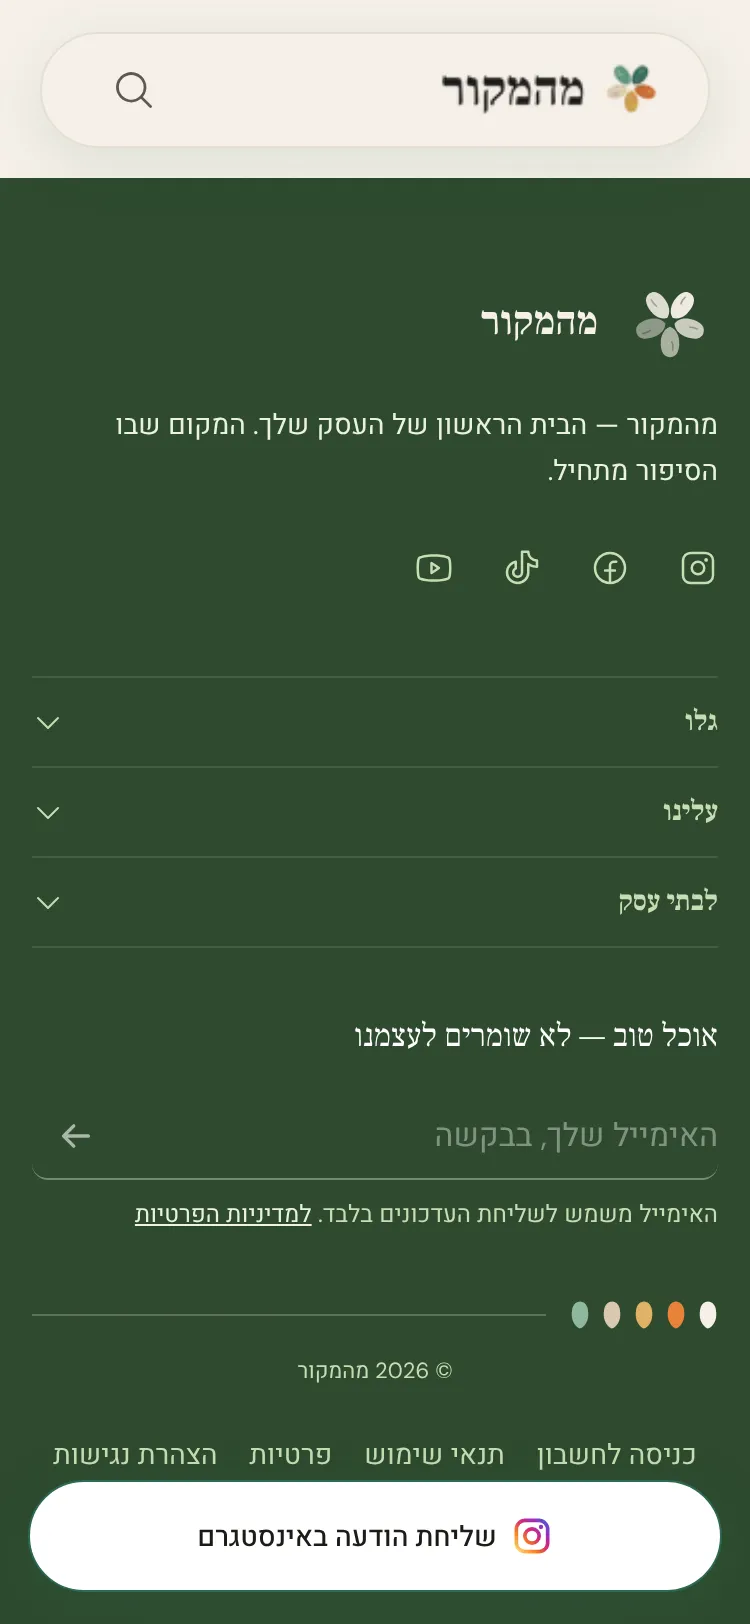
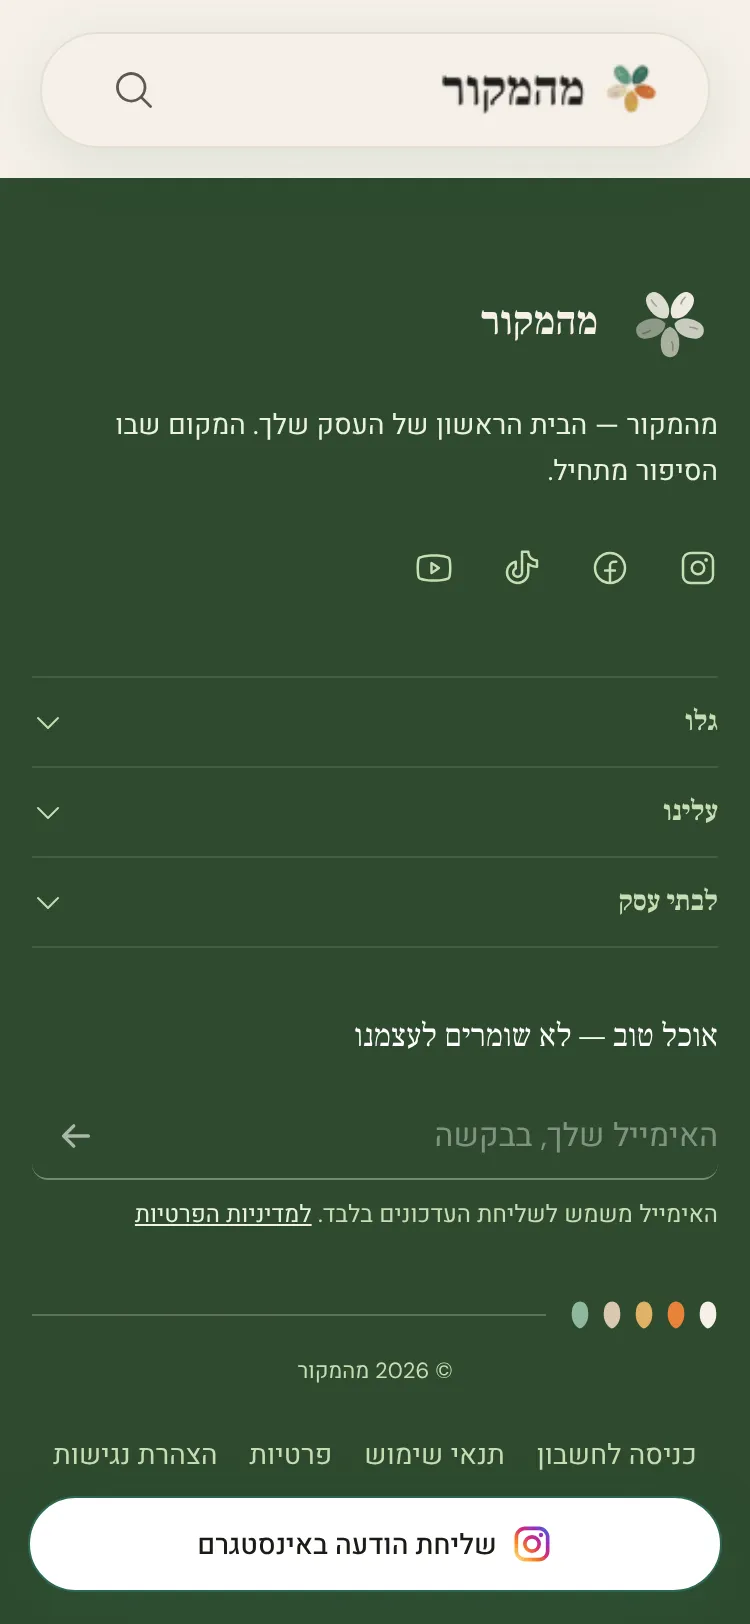
fix(producer): floating contact pill 56px -> 48px (MEH-3027)
56px (the nav pill's expanded height) read too heavy on the business page;
48px is the nav pill's compact height and stays above the 44pt/48dp tap
minimums (Sapir, 13/11). Screenshots re-captured.

Builder-Model: claude-opus-5-5

Claude-Session: https://claude.ai/code/session_01X8DSqXM6vu2RgHmPGkXoJm

Changed region(s): [[0.0613, 0.8929, 0.9813, 0.9852], [0.0307, 0.9236, 0.092, 0.9852]]

diff --git a/frontend/app/[locale]/producer/[id]/components/StickyContactBar.jsx b/frontend/app/[locale]/producer/[id]/components/StickyContactBar.jsx
@@ -72,7 +72,8 @@ export default function StickyContactBar({
       //
       // MEH-3027: the full-width white strip is gone; the CTA is now a floating
       // pill with the BottomNav shell's geometry (14px side gutters, safe-area +
-      // 16px bottom gutter, rounded-full, h-14). The strip put a 6px-radius
+      // 16px bottom gutter, rounded-full, h-12 = the nav pill's compact height;
+      // 56px read too heavy, Sapir 13/11). The strip put a 6px-radius
       // rectangle ~15pt from the screen bottom on iPhone — inside the display's
       // rounded corner — because env(safe-area-inset-bottom) is 0 without
       // viewport-fit=cover (layout.js, MEH-2427), so the corner clipped it
@@ -144,7 +145,7 @@ export default function StickyContactBar({
           // MEH-76 chunk 1: the vacation pale-green CTA fork was an ADR-019
           // violation (state-color fill + raw hex). The CTA keeps its normal
           // method-driven color — the whole bar is already dimmed via opacity.
-          className={`pointer-events-auto w-full h-14 flex items-center justify-center gap-2 rounded-full font-medium text-sm transition ${isBarVisible ? PILL_SHADOW : ""} focus-visible:ring-2 ${variant.className}`}
+          className={`pointer-events-auto w-full h-12 flex items-center justify-center gap-2 rounded-full font-medium text-sm transition ${isBarVisible ? PILL_SHADOW : ""} focus-visible:ring-2 ${variant.className}`}
         >
           <CtaIcon size={20} />
           {isVacation ? t("producer.detail.sticky_bar.vacation_msg") : getPrimaryContactLabel(producer, t)}

diff --git a/frontend/__tests__/StickyContactBarPill.test.jsx b/frontend/__tests__/StickyContactBarPill.test.jsx
@@ -41,6 +41,8 @@ describe("StickyContactBar — floating pill (MEH-3027)", () => {
     const cta = screen.getByTestId("sticky-primary-cta");
     expect(cta.className).toMatch(/\brounded-full\b/);
     expect(cta.className).not.toMatch(/\brounded-md\b/);
+    // 48px = the BottomNav pill's compact height; 56 read too heavy (Sapir, 13/11).
+    expect(cta.className).toMatch(/\bh-12\b/);
   });
 
   it("keeps a 16px bottom gutter on top of the safe-area inset (the inset is 0 on iOS here)", () => {
